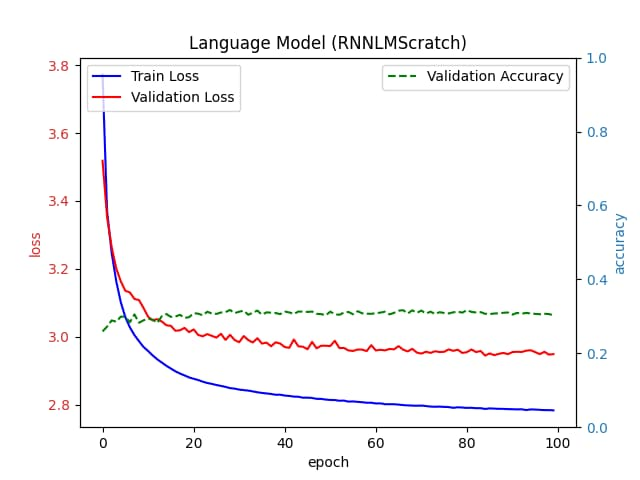
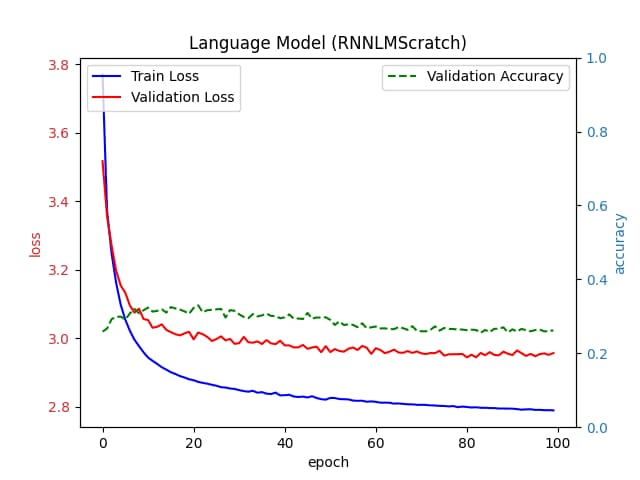
feat[ch9] Updates RNNLMScratch implementation.

diff --git a/chapter-9_recurrent-neural-networks/rnn_scratch/rnn_scratch.py b/chapter-9_recurrent-neural-networks/rnn_scratch/rnn_scratch.py
@@ -642,7 +642,7 @@ if __name__ == "__main__":
     main()
 
     # Final output:
-    # epoch #99, train_loss = 2.791, validate_loss = 2.934, accuracy = 32.2%, perplexity = 18.81
-    # device = cuda, elapsed time: 120.4 seconds
-    # prediction for 'it has': ' for have have have '
+    # epoch #99, train_loss = 2.790, validate_loss = 2.957, accuracy = 26.2%, perplexity = 19.25
+    # device = cuda, elapsed time: 161.5 seconds
+    # prediction for 'it has': 'knd hown hown hown h'
     # done!
